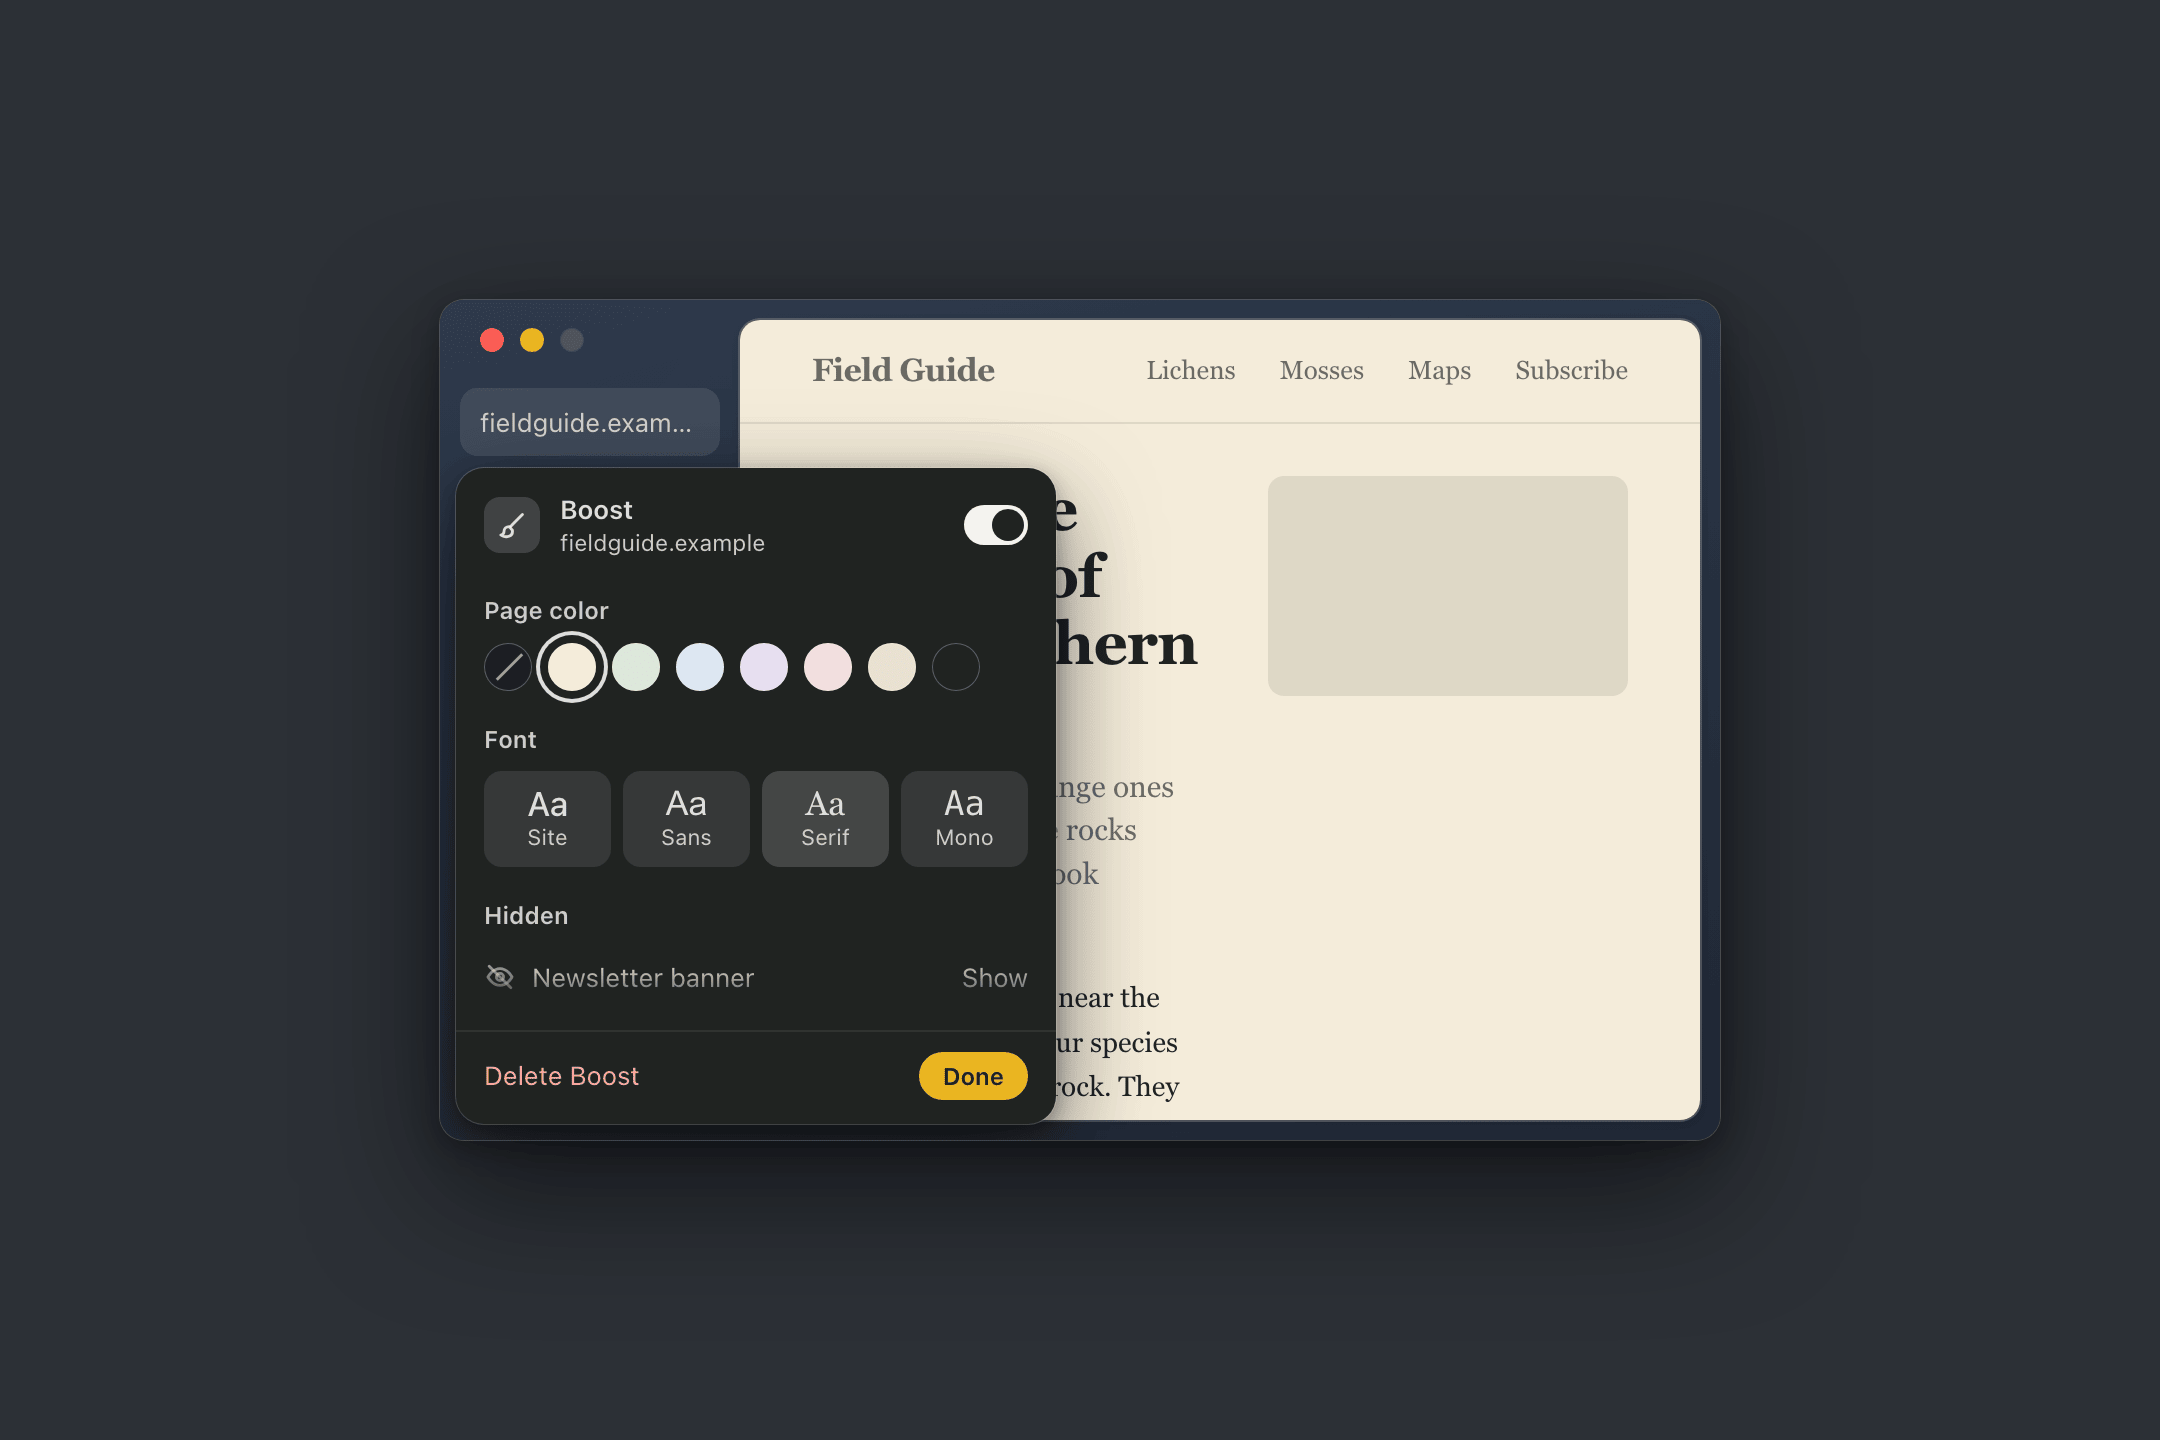
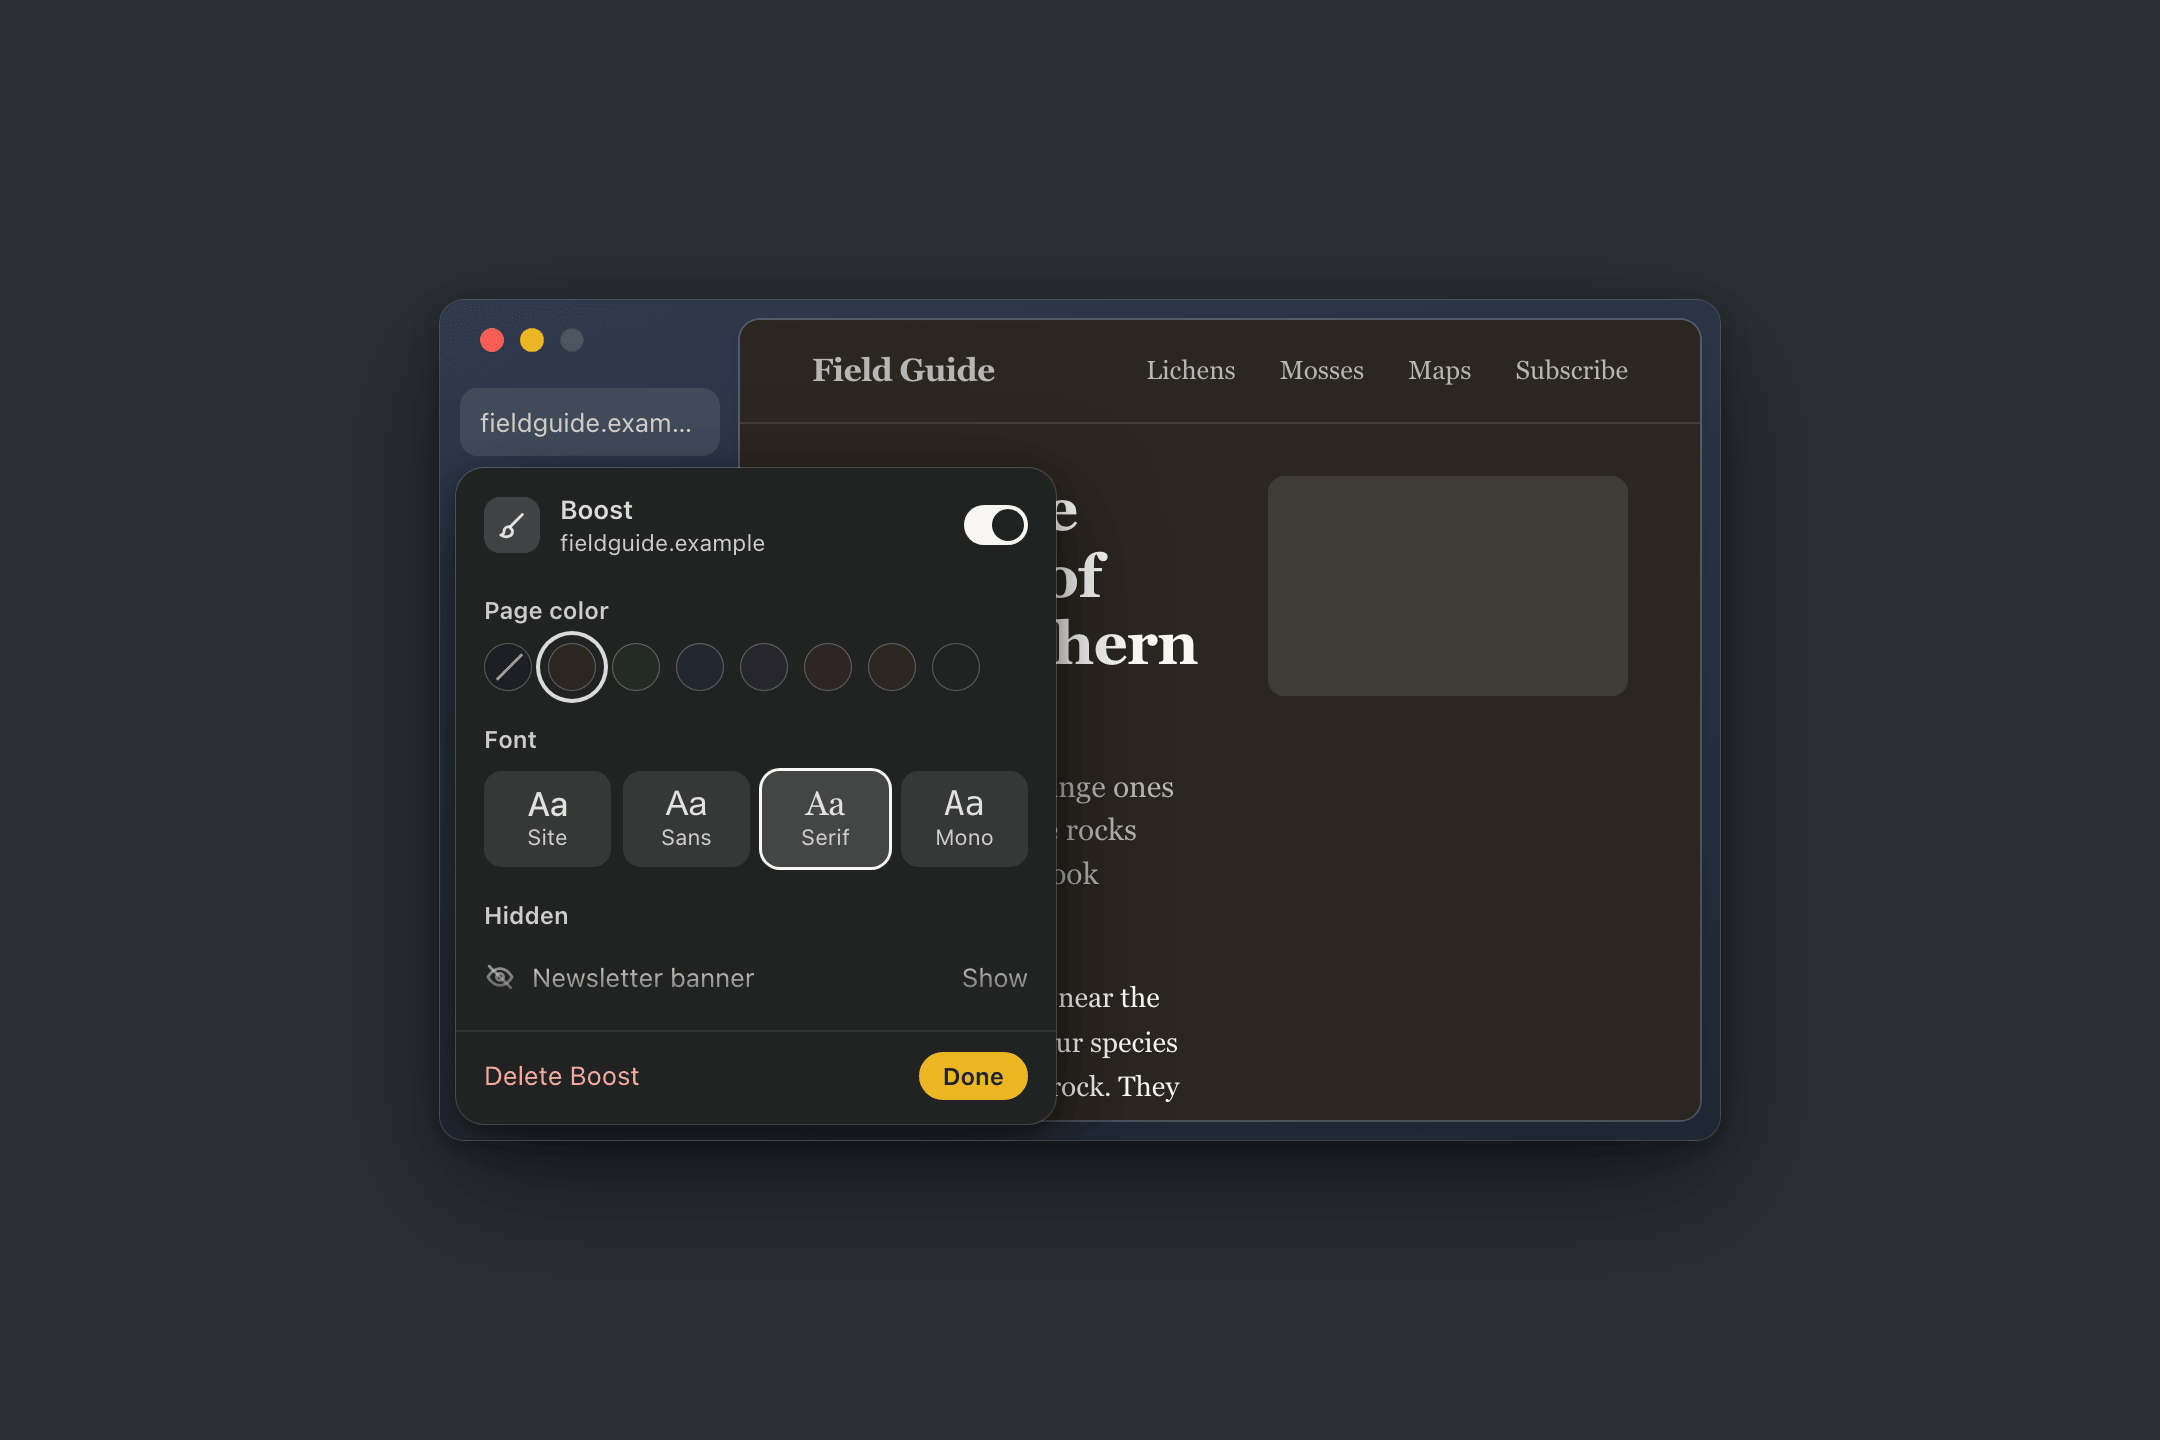
Boosts design: page colors follow the appearance; drop unused helpers
Restore the dark Boost page colors (Paper #2B2620) and give every light
color a dark value, recorded in the BoostTokens table. Draw the selected
font cell's edge in porcelain in dark. Keep the small-window and Library
rail helpers out of the clear-browsing-data and clear-today-tabs mocks.

Changed region(s): [[0.3412, 0.2188, 0.8065, 0.7812], [0.2481, 0.4375, 0.4343, 0.5]]

diff --git a/design/boosts/prototype.html b/design/boosts/prototype.html
@@ -637,6 +637,7 @@ body { display: flex; justify-content: center; align-items: center; }
 /* Smallest window: the panel caps its height to the window; its middle scrolls with a faded edge, the footer stays */
 .bx-scroll { flex: 1; min-height: 0; overflow: hidden; -webkit-mask-image: linear-gradient(#000 calc(100% - 28px), transparent); mask-image: linear-gradient(#000 calc(100% - 28px), transparent); }
 :root[data-theme="dark"] .sw i { box-shadow: inset 0 0 0 0.5px rgba(255,255,255,0.28); }
+:root[data-theme="dark"] .segf span.on { box-shadow: 0 0 0 1.5px #FAF9F5; }
 
 </style>
 </head>
@@ -834,19 +835,20 @@ function browser(o = {}) {
 /* ---------- This surface ---------- */
 /* ---------- Boosts (#645) ---------- */
 document.head.insertAdjacentHTML('beforeend', `<style>
-:root { --boost-paper: #F4ECDA; --boost-text-light: #202321; --boost-text-night: #FAF9F5; }
-/* A Boost page color is the page's own color: the same in light and dark appearance. Text follows the color. */
-.site.onlight { --text: var(--boost-text-light); --text-2: rgba(32,35,33,0.64); --page-ink: rgba(32,35,33,0.10); --page-ink-2: rgba(32,35,33,0.18); --divider: rgba(32,35,33,0.10); }
-.site.onnight { --text: var(--boost-text-night); --text-2: rgba(250,249,245,0.68); --page-ink: rgba(250,249,245,0.10); --page-ink-2: rgba(250,249,245,0.20); --divider: rgba(250,249,245,0.10); }
+:root { --bc-paper: #F4ECDA; --bc-sage: #DCE7DA; --bc-sky: #DCE6F2; --bc-lilac: #E6DEF0; --bc-rose: #F2DEDE; --bc-sand: #E9E1D2; --bc-night: #202321; }
+:root[data-theme="dark"] { --bc-paper: #2B2620; --bc-sage: #232B25; --bc-sky: #222831; --bc-lilac: #2A2530; --bc-rose: #2F2526; --bc-sand: #2A2721; }
+/* Boost page colors follow the appearance (BoostTokens.pageColor*, light and dark values). Text follows the color. */
+.site.tinted { --text: #202321; --text-2: rgba(32,35,33,0.64); --page-ink: rgba(32,35,33,0.10); --page-ink-2: rgba(32,35,33,0.18); --divider: rgba(32,35,33,0.10); }
+:root[data-theme="dark"] .site.tinted, .site.onnight { --text: #FAF9F5; --text-2: rgba(250,249,245,0.68); --page-ink: rgba(250,249,245,0.10); --page-ink-2: rgba(250,249,245,0.20); --divider: rgba(250,249,245,0.10); }
 </style>`);
-const SW = [['none', ''], ['paper', '#F4ECDA'], ['sage', '#DCE7DA'], ['sky', '#DCE6F2'], ['lilac', '#E6DEF0'], ['rose', '#F2DEDE'], ['sand', '#E9E1D2'], ['night', '#202321']];
+const SW = [['none', ''], ['paper', 'var(--bc-paper)'], ['sage', 'var(--bc-sage)'], ['sky', 'var(--bc-sky)'], ['lilac', 'var(--bc-lilac)'], ['rose', 'var(--bc-rose)'], ['sand', 'var(--bc-sand)'], ['night', 'var(--bc-night)']];
 const swatches = (on = 1, n = 8) => `<div class="sw" role="radiogroup" aria-label="Page color">${SW.slice(0, n).map(([nm, c], i) => `<i class="${nm === 'none' ? 'none' : ''}${i === on ? ' on' : ''}" style="${c ? 'background:' + c : ''}" role="radio" aria-checked="${i === on}" aria-label="${nm === 'none' ? 'Site colors' : nm}"></i>`).join('')}</div>`;
 const fonts = (on = 2) => `<div class="segf" role="radiogroup" aria-label="Font">${[['Aa', 'Site', 'inherit'], ['Aa', 'Sans', '-apple-system,sans-serif'], ['Aa', 'Serif', 'ui-serif,Georgia,serif'], ['Aa', 'Mono', 'ui-monospace,Menlo,monospace']].map(([a, n, f], i) => `<span class="${i === on ? 'on' : ''}" role="radio" aria-checked="${i === on}"><b style="font-family:${f}">${a}</b>${n}</span>`).join('')}</div>`;
 const tgl = (on = true, label = 'Boost on') => `<button class="tg" role="switch" aria-checked="${on}" aria-label="${label}"><i></i></button>`;
 
 function site(o = {}) {
-  const st = `${o.tint ? '--sbg:var(--boost-paper);' : ''}${o.serif ? '--sfont:ui-serif,Georgia,serif;' : ''}${o.right ? 'right:' + o.right + 'px;' : ''}`;
-  return `<div class="site${o.tint ? ' onlight' : ''}" style="${st}">
+  const st = `${o.tint ? '--sbg:var(--bc-paper);' : ''}${o.serif ? '--sfont:ui-serif,Georgia,serif;' : ''}${o.right ? 'right:' + o.right + 'px;' : ''}`;
+  return `<div class="site${o.tint ? ' tinted' : ''}" style="${st}">
     <div class="top"><span class="logo">Field Guide</span><span>Lichens</span><span>Mosses</span><span>Maps</span><span>Subscribe</span></div>
     ${o.hidePromo ? '' : `<div class="promo${o.pick ? ' picked' : ''}"><b>Get the weekly field notes</b><span style="color:var(--text-2)">Join 80,000 readers. No spam, ever.</span><span class="x">Sign up</span></div>`}
     <div class="art"><div>

diff --git a/design/clear-today-tabs/prototype.html b/design/clear-today-tabs/prototype.html
@@ -128,15 +128,6 @@ svg { display: block; }
 .nav { position: fixed; top: 8px; left: 8px; display: flex; gap: 6px; font-size: 11px; z-index: 99; }
 .nav a { padding: 3px 7px; border-radius: 6px; background: rgba(0,0,0,0.08); color: inherit; text-decoration: none; }
 .shot .nav { display: none; }
-/* Smallest window: 640 x 420, 150 pt sidebar (Library: 150 pt rail) */
-.smallwrap .win { width: 640px; height: 420px; }
-.smallwrap .sidebar { width: 150px; }
-.smallwrap .card { left: 150px; }
-.smallwrap .toast-host { left: 150px; }
-.smallwrap .behind { display: none; }
-.smallwrap .lib { width: 640px; height: 420px; grid-template-columns: 150px minmax(0, 1fr); }
-.smallwrap .lsearch { width: 180px; }
-.smallwrap .sbottom { left: 0; right: 0; bottom: 0; height: 40px; background: linear-gradient(to bottom, transparent, var(--theme-b) 14px); }
 .divclear { height: 18px; margin: 3px 8px 5px; display: flex; align-items: center; gap: 8px; }
 .divclear .line { flex: 1; height: 1px; background: var(--divider); }
 .divclear .clr { font-size: 12px; font-weight: 600; color: var(--text-2); padding: 1px 6px; margin-right: -6px; border-radius: 6px; background: var(--fill); }
@@ -201,11 +192,6 @@ function boot(STATES, NOTES = {}) {
   addEventListener('hashchange', render);
   render();
 }
-/* Library window rail: one order everywhere (Downloads, History, Spaces, Boosts). Captures is not listed yet. */
-const BOOST_G = '<svg width="16" height="16" viewBox="0 0 16 16" fill="none" stroke="currentColor" stroke-width="1.4" stroke-linecap="round"><path d="M3 4.5h6M12 4.5h1M3 11.5h1M7 11.5h6"/><circle cx="10.5" cy="4.5" r="1.6"/><circle cx="5.5" cy="11.5" r="1.6"/></svg>';
-const libRail = (on) => `<div class="rail" role="list" aria-label="Library">${[['Downloads', G.dl], ['History', G.clock], ['Spaces', G.spaces], ['Boosts', BOOST_G]].map(([t, g]) => `<div class="ritem ${t === on ? 'on' : ''}" role="listitem">${g}<span>${t}</span></div>`).join('')}</div>`;
-/* Smallest window: 640 x 420, 150 pt sidebar */
-const small = (html) => `<div class="smallwrap">${html}</div>`;
 /* #413 Clear Today Tabs: the Clear control above Today and the rows' exit motion.
    "Clear" at the trailing end of the Today divider, shown while the pointer is over the sidebar.
    Every archived row collapses upward at once on the firm spring (no stagger). The playing tab stays.

diff --git a/design/clear-browsing-data/prototype.html b/design/clear-browsing-data/prototype.html
@@ -128,15 +128,6 @@ svg { display: block; }
 .nav { position: fixed; top: 8px; left: 8px; display: flex; gap: 6px; font-size: 11px; z-index: 99; }
 .nav a { padding: 3px 7px; border-radius: 6px; background: rgba(0,0,0,0.08); color: inherit; text-decoration: none; }
 .shot .nav { display: none; }
-/* Smallest window: 640 x 420, 150 pt sidebar (Library: 150 pt rail) */
-.smallwrap .win { width: 640px; height: 420px; }
-.smallwrap .sidebar { width: 150px; }
-.smallwrap .card { left: 150px; }
-.smallwrap .toast-host { left: 150px; }
-.smallwrap .behind { display: none; }
-.smallwrap .lib { width: 640px; height: 420px; grid-template-columns: 150px minmax(0, 1fr); }
-.smallwrap .lsearch { width: 180px; }
-.smallwrap .sbottom { left: 0; right: 0; bottom: 0; height: 40px; background: linear-gradient(to bottom, transparent, var(--theme-b) 14px); }
 .swin { position: relative; width: 680px; height: 640px; border-radius: 12px; background: var(--surface); box-shadow: var(--win-shadow); overflow: hidden; }
 .swin .lights { top: 18px; left: 18px; }
 .stitle2 { text-align: center; font-weight: 600; padding-top: 16px; height: 84px; }
@@ -212,11 +203,6 @@ function boot(STATES, NOTES = {}) {
   addEventListener('hashchange', render);
   render();
 }
-/* Library window rail: one order everywhere (Downloads, History, Spaces, Boosts). Captures is not listed yet. */
-const BOOST_G = '<svg width="16" height="16" viewBox="0 0 16 16" fill="none" stroke="currentColor" stroke-width="1.4" stroke-linecap="round"><path d="M3 4.5h6M12 4.5h1M3 11.5h1M7 11.5h6"/><circle cx="10.5" cy="4.5" r="1.6"/><circle cx="5.5" cy="11.5" r="1.6"/></svg>';
-const libRail = (on) => `<div class="rail" role="list" aria-label="Library">${[['Downloads', G.dl], ['History', G.clock], ['Spaces', G.spaces], ['Boosts', BOOST_G]].map(([t, g]) => `<div class="ritem ${t === on ? 'on' : ''}" role="listitem">${g}<span>${t}</span></div>`).join('')}</div>`;
-/* Smallest window: 640 x 420, 150 pt sidebar */
-const small = (html) => `<div class="smallwrap">${html}</div>`;
 /* #637 Clear browsing data sheet, on the Settings window (Privacy, "Clear...").
    One compact sheet: a time range pop-up, four checkboxes with what each costs, a summary line that names the
    total, Clear Data (destructive: neutral pill, red title, never the Return default).

diff --git a/design/boosts/README.md b/design/boosts/README.md
@@ -17,30 +17,32 @@ Not picked: B (inspector beside the page, kept only as the Code pane) and C (tra
 - **Page color**: 8 swatches, 24 pt circles, gap 8: Site colors (none), paper, sage, sky, lilac, rose, sand, night. The
   chosen one has a 2 pt ring in the text color, 4 pt outside the swatch (never mustard).
 - **Font**: 4 cells (Site, Sans, Serif, Mono), 48 pt tall, radius 9, each showing "Aa" in its face; the chosen cell
-  uses the current-row fill with a 1.5 pt text-color edge.
+  uses the current-row fill with a 1.5 pt text-color edge (porcelain in dark).
 - **Hidden**: one 30 pt row per hidden element (eye-off glyph, label, Show). Under it: **Hide an Element...** (neutral
   pill) and **Code...** (quiet).
 - **Footer**: Delete Boost (quiet, red title) and **Done** (primary). Changes apply at once; Done only closes.
 
 ## Tokens
 
-A Boost page color is the page's own color: it is the same in light and dark appearance, and the page text follows
-it (graphite on the six light colors, porcelain on Night).
+Boost page colors follow the appearance: each has a light and a dark value, and the page text follows the appearance
+(graphite on the light values, porcelain on the dark values and on Night). The swatches in the panel show the value
+for the current appearance.
 
-| Token | Value | Use |
-|---|---|---|
-| `BoostTokens.pageColorPaper` | `#F4ECDA` | page background |
-| `BoostTokens.pageColorSage` | `#DCE7DA` | page background |
-| `BoostTokens.pageColorSky` | `#DCE6F2` | page background |
-| `BoostTokens.pageColorLilac` | `#E6DEF0` | page background |
-| `BoostTokens.pageColorRose` | `#F2DEDE` | page background |
-| `BoostTokens.pageColorSand` | `#E9E1D2` | page background |
-| `BoostTokens.pageColorNight` | `#202321` | page background |
-| `BoostTokens.pageTextOnLight` | `#202321` (graphite); secondary text 64 % | text on Paper, Sage, Sky, Lilac, Rose, Sand |
-| `BoostTokens.pageTextOnNight` | `#FAF9F5` (porcelain); secondary text 68 % | text on Night |
+| Token | Light | Dark | Use |
+|---|---|---|---|
+| `BoostTokens.pageColorPaper` | `#F4ECDA` | `#2B2620` | page background |
+| `BoostTokens.pageColorSage` | `#DCE7DA` | `#232B25` | page background |
+| `BoostTokens.pageColorSky` | `#DCE6F2` | `#222831` | page background |
+| `BoostTokens.pageColorLilac` | `#E6DEF0` | `#2A2530` | page background |
+| `BoostTokens.pageColorRose` | `#F2DEDE` | `#2F2526` | page background |
+| `BoostTokens.pageColorSand` | `#E9E1D2` | `#2A2721` | page background |
+| `BoostTokens.pageColorNight` | `#202321` | `#202321` | page background |
+| `BoostTokens.pageText` | `#202321` (graphite); secondary 64 % | `#FAF9F5` (porcelain); secondary 68 % | text on Paper, Sage, Sky, Lilac, Rose, Sand |
+| `BoostTokens.pageTextOnNight` | `#FAF9F5` (porcelain); secondary 68 % | `#FAF9F5` (porcelain); secondary 68 % | text on Night |
 
 "Site colors" (the first swatch) removes the color and keeps the site's own. A swatch has a 0.5 pt inner edge (black
-18 % in light, white 28 % in dark) so Night stays visible on the dark panel.
+18 % in light, white 28 % in dark) so the dark values and Night stay visible on the dark panel. The selected font cell
+has a 1.5 pt edge in the text color: graphite in light, porcelain `#FAF9F5` in dark.
 
 ## Hiding an element (`picker`)
 
@@ -64,7 +66,7 @@ the header and the footer with Done stay.
 ## Managing Boosts (`manage`)
 
 The Library window (title "Library") uses the shared rail documented in `design/library-history/README.md`, "Library
-window rail": Downloads, History, Spaces, Boosts, in that order. Captures is not in the rail while the capture
+window rail": Downloads, History, Spaces, Boosts, in that order. Boosts uses the brush glyph, the same as the panel header. Captures is not in the rail while the capture
 destination question on #646 is open. The search field reads "Search Boosts". The Boosts section: one 56 pt row per site (32 pt site tile, host, a one-line summary, an on/off
 switch, a more menu). Long hosts truncate; rows that are off are dimmed. The footer reads "Boosts change how a site
 looks on this Mac. Each one runs only on its own site."
